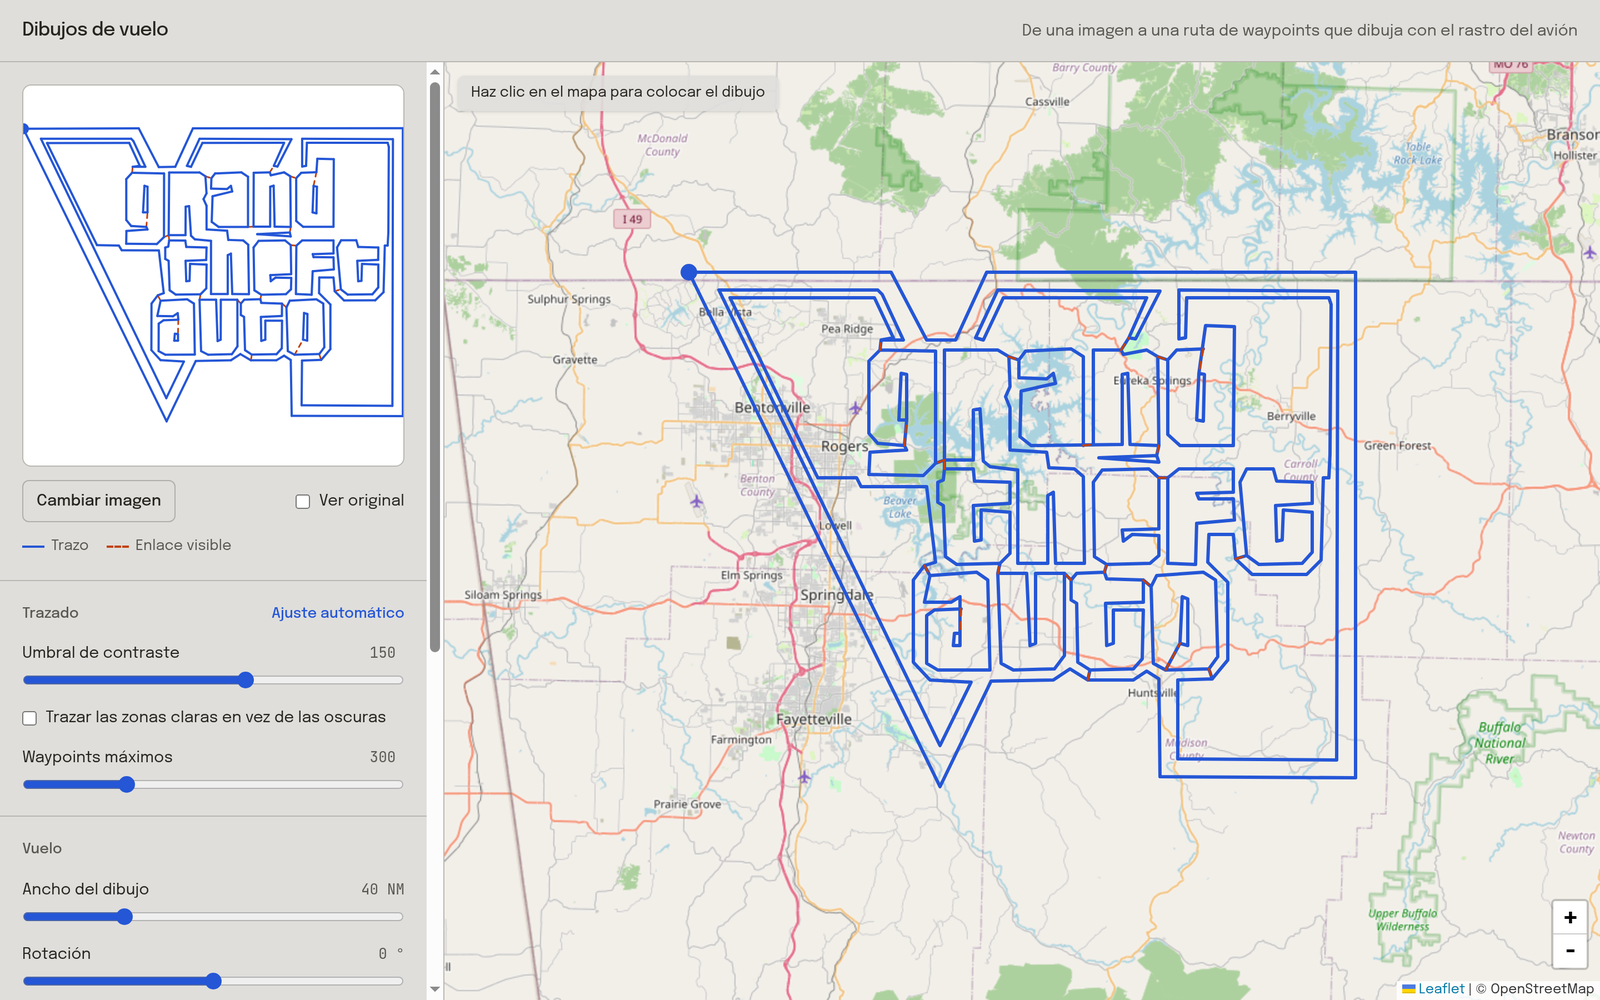
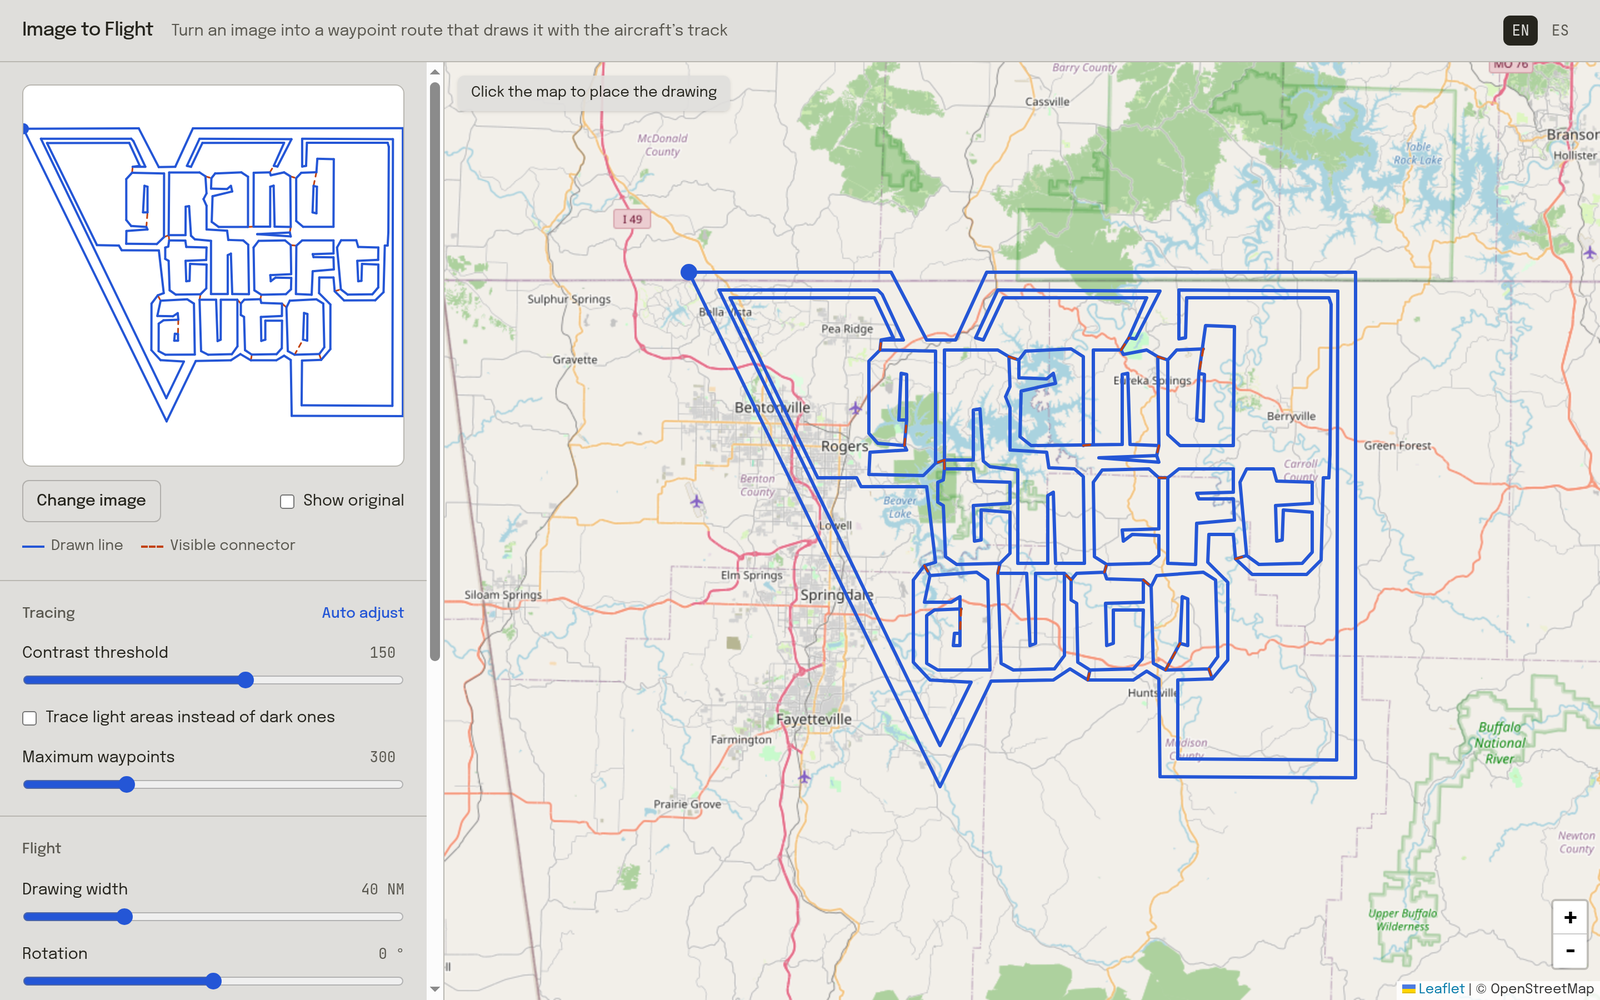
docs: write README in English with a Spanish version

diff --git a/README.md b/README.md
@@ -1,59 +1,63 @@
-# imagetoflight
+# Image to Flight
 
-Convierte una imagen en una ruta de vuelo que, al volarla, dibuja la imagen con el rastro GPS del avión.
+**English** · [Español](README.es.md)
 
-Sube un logo o una silueta, colócala en el mapa y exporta los waypoints en GPX, KML o CSV. Es el mismo tipo de dibujo que hizo el Cessna N1810R sobre Arkansas con el logo de GTA VI.
+Turn any image into a flight route whose GPS track draws that image.
 
-![La app con el logo de GTA VI convertido en ruta sobre Arkansas](docs/app.png)
+Upload a logo or silhouette, place it on the map and export the waypoints as GPX, KML or CSV. It makes the same kind of drawing the Cessna N1810R flew over Arkansas with the GTA VI logo.
+
+![The app with the GTA VI logo turned into a route over Arkansas](docs/app.png)
 
 <p align="center">
-  <img src="docs/vuelo.gif" width="420" alt="El rastro del avión dibujando la ruta exportada, waypoint a waypoint">
+  <img src="docs/flight.gif" width="420" alt="The aircraft track drawing the exported route, waypoint by waypoint">
 </p>
 
-## Ejemplos
+## Examples
 
-Arriba, la imagen original. Abajo, la ruta que se genera: en azul lo que dibuja el avión, en naranja discontinuo los enlaces entre figuras.
+Top row: the original image. Bottom row: the generated route. The drawn line is blue; the dashed orange lines are the connectors between shapes.
 
-![Logo, silueta y texto junto a sus rutas](docs/ejemplos.png)
+![A logo, a silhouette and lettering next to their routes](docs/examples.png)
 
-## Cómo funciona
+## How it works
 
-1. **Contornos.** La imagen se pasa a gris y se separa en tinta y fondo con un umbral de contraste (método de Otsu). Se detecta sola si la tinta es oscura sobre claro o al revés. Después se sacan los contornos con marching squares.
-2. **Simplificación que se puede volar.** Los contornos se simplifican con Ramer–Douglas–Peucker hasta caber en el máximo de waypoints. El detalle más fino que se conserva es medio radio de viraje a la velocidad elegida, y las figuras demasiado pequeñas para volarlas se descartan antes que deformar las grandes.
-3. **Un solo trazo.** Las figuras se unen con un árbol de expansión mínima: el avión sale por el enlace más corto, dibuja la figura y vuelve por el mismo enlace. Así las líneas sobrantes del rastro son las mínimas posibles y ningún contorno se vuela dos veces.
-4. **Colocación.** Haces clic en el mapa para centrar el dibujo y eliges el ancho en millas náuticas, la rotación y la velocidad. La app calcula la distancia, el tiempo de vuelo y cuántas millas de enlaces quedarán visibles.
+1. **Outlines.** The image is converted to grayscale and split into ink and background with a contrast threshold (Otsu's method). The app detects on its own whether the ink is dark on light or light on dark. The outlines are then extracted with marching squares.
+2. **Flyable simplification.** Outlines are simplified with Ramer–Douglas–Peucker until they fit the waypoint limit. The finest detail kept is half the turn radius at the chosen speed. Shapes too small to fly are dropped before large ones get distorted.
+3. **One continuous line.** Shapes are joined with a minimum spanning tree. The aircraft flies out along the shortest connector, draws the shape and flies back along the same connector. That keeps the extra lines in the track to a minimum, and no outline is flown twice.
+4. **Placement.** Click the map to centre the drawing, then set its width in nautical miles, its rotation and the cruise speed. The app shows the distance, the flight time and how many miles of connectors will stay visible.
 
-## Formatos de exportación
+The interface is available in English and Spanish. It follows your browser language, and you can switch it from the header.
 
-| Formato | Para qué |
+## Export formats
+
+| Format | Use it for |
 |---|---|
-| **GPX** | Ruta con waypoints `D001`, `D002`… para ForeFlight, Garmin Pilot, SkyDemon y similares |
-| **KML** | Línea continua para Google Earth o como capa de mapa en una EFB |
-| **CSV** | `name,lat,lon`, por si quieres procesarlo tú |
+| **GPX** | A route with waypoints `D001`, `D002`… for ForeFlight, Garmin Pilot, SkyDemon and similar apps |
+| **KML** | One continuous line for Google Earth or as a map layer in an EFB |
+| **CSV** | `name,lat,lon`, for your own processing |
 
-Muchos equipos de aviónica limitan un plan de vuelo a unos 100 waypoints. Para seguir un dibujo detallado suele ser más práctico cargar el KML como capa del mapa y volarlo a ojo, y reservar el GPX para equipos que admitan rutas largas.
+Many avionics units cap a flight plan at about 100 waypoints. For a detailed drawing it is usually easier to load the KML as a map layer and fly it by eye, and keep the GPX for units that accept long routes.
 
-## Consejos
+## Tips
 
-- Funcionan mejor los logos, siluetas y textos con buen contraste. Con fotos hay que ajustar el umbral a mano.
-- Unos 300 waypoints bastan para que se lea un logo con texto. Por debajo de 200 las letras empiezan a perderse.
-- Cuanto más grande el dibujo, más detalle cabe. Pero la distancia crece igual de rápido: el logo de GTA VI a 40 NM de ancho son unas 780 NM, unas 6,5 horas a 120 kt.
+- Logos, silhouettes and lettering with strong contrast work best. Photos need the threshold adjusted by hand.
+- About 300 waypoints are enough for a logo with lettering to read. Below 200 the letters start to break up.
+- A larger drawing holds more detail, but the distance grows just as fast: the GTA VI logo 40 NM wide is about 780 NM, roughly 6.5 hours at 120 kt.
 
-## Desarrollo
+## Development
 
-Necesitas Node 22 o superior y pnpm.
+Requires Node 22 or later and pnpm.
 
 ```bash
 pnpm install
 pnpm dev       # http://localhost:5173
-pnpm build     # tipos + build de producción en dist/
+pnpm build     # type check + production build in dist/
 pnpm lint
 ```
 
-Está hecho con React, Vite, Tailwind, [Leaflet](https://leafletjs.com) y [d3-contour](https://github.com/d3/d3-contour). Todo se procesa en el navegador: la imagen no se sube a ningún servidor.
+Built with React, Vite, Tailwind, [Leaflet](https://leafletjs.com) and [d3-contour](https://github.com/d3/d3-contour). Everything runs in the browser; your image is never uploaded to a server.
 
-## Aviso
+## Disclaimer
 
-Es una herramienta de planificación, no de navegación. Antes de volar cualquier ruta, comprueba el espacio aéreo, el terreno, los NOTAM y el combustible.
+This is a planning tool, not a navigation tool. Before flying any route, check airspace, terrain, NOTAMs and fuel.
 
-El mapa es de © colaboradores de [OpenStreetMap](https://www.openstreetmap.org/copyright). El logo de Grand Theft Auto VI es una marca de Rockstar Games y aparece aquí solo como ejemplo.
+Map data © [OpenStreetMap](https://www.openstreetmap.org/copyright) contributors. The Grand Theft Auto VI logo is a trademark of Rockstar Games and appears here only as an example.

diff --git a/README.es.md b/README.es.md
@@ -1,0 +1,63 @@
+# Image to Flight
+
+[English](README.md) · **Español**
+
+Convierte cualquier imagen en una ruta de vuelo cuyo rastro GPS dibuja esa imagen.
+
+Sube un logo o una silueta, colócala en el mapa y exporta los waypoints en GPX, KML o CSV. Es el mismo tipo de dibujo que hizo el Cessna N1810R sobre Arkansas con el logo de GTA VI.
+
+![La app con el logo de GTA VI convertido en ruta sobre Arkansas](docs/app-es.png)
+
+<p align="center">
+  <img src="docs/flight.gif" width="420" alt="El rastro del avión dibujando la ruta exportada, waypoint a waypoint">
+</p>
+
+## Ejemplos
+
+Arriba, la imagen original. Abajo, la ruta que se genera: en azul lo que dibuja el avión, en naranja discontinuo los enlaces entre figuras.
+
+![Logo, silueta y texto junto a sus rutas](docs/examples.png)
+
+## Cómo funciona
+
+1. **Contornos.** La imagen se pasa a gris y se separa en tinta y fondo con un umbral de contraste (método de Otsu). La app detecta sola si la tinta es oscura sobre claro o al revés. Después saca los contornos con marching squares.
+2. **Simplificación que se puede volar.** Los contornos se simplifican con Ramer–Douglas–Peucker hasta caber en el máximo de waypoints. El detalle más fino que se conserva es medio radio de viraje a la velocidad elegida. Las figuras demasiado pequeñas para volarlas se descartan antes que deformar las grandes.
+3. **Un solo trazo.** Las figuras se unen con un árbol de expansión mínima. El avión sale por el enlace más corto, dibuja la figura y vuelve por el mismo enlace. Así quedan las mínimas líneas sobrantes en el rastro y ningún contorno se vuela dos veces.
+4. **Colocación.** Haz clic en el mapa para centrar el dibujo y elige su ancho en millas náuticas, la rotación y la velocidad de crucero. La app muestra la distancia, el tiempo de vuelo y cuántas millas de enlaces quedarán visibles.
+
+La interfaz está en inglés y en español. Se elige según el idioma del navegador y se puede cambiar desde la cabecera.
+
+## Formatos de exportación
+
+| Formato | Para qué |
+|---|---|
+| **GPX** | Ruta con waypoints `D001`, `D002`… para ForeFlight, Garmin Pilot, SkyDemon y similares |
+| **KML** | Línea continua para Google Earth o como capa de mapa en una EFB |
+| **CSV** | `name,lat,lon`, por si quieres procesarlo tú |
+
+Muchos equipos de aviónica limitan un plan de vuelo a unos 100 waypoints. Para seguir un dibujo detallado suele ser más práctico cargar el KML como capa del mapa y volarlo a ojo, y reservar el GPX para equipos que admitan rutas largas.
+
+## Consejos
+
+- Funcionan mejor los logos, siluetas y textos con buen contraste. Con fotos hay que ajustar el umbral a mano.
+- Unos 300 waypoints bastan para que se lea un logo con texto. Por debajo de 200 las letras empiezan a perderse.
+- Cuanto más grande el dibujo, más detalle cabe. Pero la distancia crece igual de rápido: el logo de GTA VI a 40 NM de ancho son unas 780 NM, unas 6,5 horas a 120 kt.
+
+## Desarrollo
+
+Necesitas Node 22 o superior y pnpm.
+
+```bash
+pnpm install
+pnpm dev       # http://localhost:5173
+pnpm build     # tipos + build de producción en dist/
+pnpm lint
+```
+
+Está hecho con React, Vite, Tailwind, [Leaflet](https://leafletjs.com) y [d3-contour](https://github.com/d3/d3-contour). Todo se procesa en el navegador: tu imagen nunca se sube a ningún servidor.
+
+## Aviso
+
+Es una herramienta de planificación, no de navegación. Antes de volar cualquier ruta, comprueba el espacio aéreo, el terreno, los NOTAM y el combustible.
+
+Mapa © colaboradores de [OpenStreetMap](https://www.openstreetmap.org/copyright). El logo de Grand Theft Auto VI es una marca de Rockstar Games y aparece aquí solo como ejemplo.
